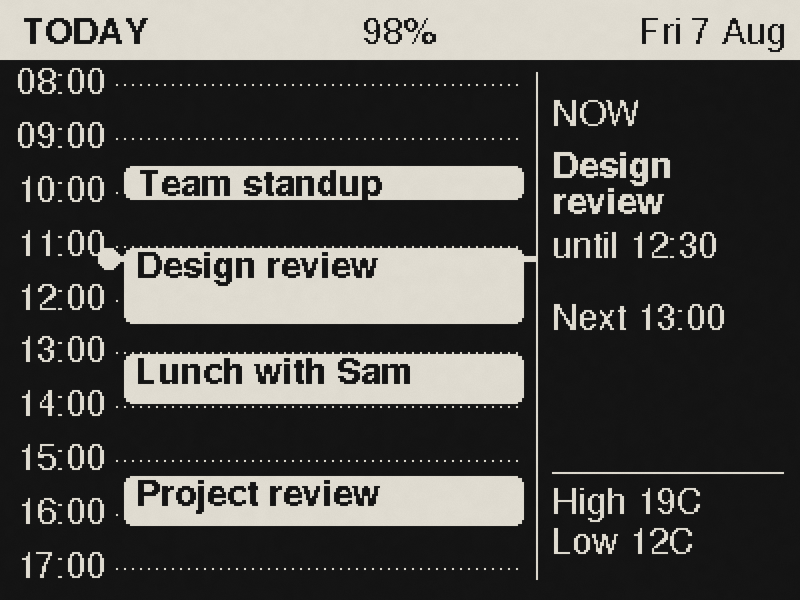
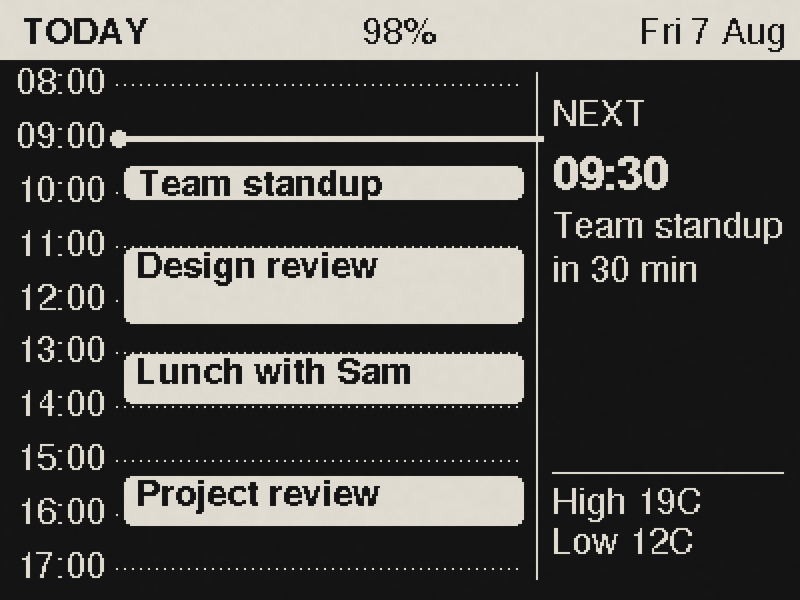
.

diff --git a/src/lib/eink/layouts/timeline.ts b/src/lib/eink/layouts/timeline.ts
@@ -146,16 +146,9 @@ export function timeline(ctx: LayoutCtx): string {
 		if ((h - w.start) % step === 0) d.text(8, y + 4, 's', `${pad2(h % 24)}:00`);
 	}
 
-	// the bar for "now" (only while it moves across the timeline). Drawn BEHIND the event blocks
-	// so it never cuts through a title; its two ends stick out either side of the blocks.
+	// the bar for "now" (only while it moves across the timeline)
 	const barOn = live && timed.length > 0 && nowH >= w.start - TOLERANCE_H && nowH < w.end - TOLERANCE_H;
-	if (barOn) {
-		const y = Math.round(yOf(Math.max(nowH, w.start)));
-		d.fill(lineX - 4, y - 2, blockR - lineX + 10, 1, PAPER);
-		d.fill(lineX - 4, y + 2, blockR - lineX + 10, 1, PAPER);
-		d.fill(lineX - 4, y - 1, blockR - lineX + 10, 3);
-		d.disc(lineX - 4, y, 5);
-	}
+	const barY = barOn ? Math.round(yOf(Math.max(nowH, w.start))) : -99;
 
 	// events: overlapping ones share the width side by side (up to 3 lanes)
 	const MIN_H = 18;
@@ -190,6 +183,7 @@ export function timeline(ctx: LayoutCtx): string {
 	}
 	flush();
 	const total = blockR - blockX;
+	const blocked: [number, number][] = []; // blocks too short to fit a title and the bar: the bar skips them
 	for (const it of items) {
 		const gap = 3;
 		const bw = Math.floor((total - gap * (it.lanes - 1)) / it.lanes);
@@ -197,7 +191,33 @@ export function timeline(ctx: LayoutCtx): string {
 		const y = Math.round(it.top) + 1;
 		const h = Math.round(it.bottom - it.top) - 1;
 		d.fillRound(x, y, bw, h, 4);
-		d.text(x + 6, y + 14, 'sb', it.t.title, { color: PAPER, maxW: bw - 10 });
+		// keep the title clear of the "now" bar when it crosses this block
+		let base = y + 14;
+		if (barOn && barY >= y && barY <= y + h && barY + 3 >= base - 13 && barY - 3 <= base + 4) {
+			if (barY + 3 + 15 + 3 <= y + h) base = barY + 3 + 15; // below the bar
+			else if (barY - 4 - 3 - 13 >= y) base = barY - 4 - 3; // above it
+			else blocked.push([x, x + bw]);
+		}
+		d.text(x + 6, base, 'sb', it.t.title, { color: PAPER, maxW: bw - 10 });
+	}
+
+	// the bar sits on top of the blocks, with a paper edge so it also shows on black
+	if (barOn) {
+		const x0 = lineX;
+		const x1 = blockR + 10;
+		let cur = x0;
+		const seg = (a: number, b: number) => {
+			if (b <= a) return;
+			d.fill(a, barY - 2, b - a, 1, PAPER);
+			d.fill(a, barY + 2, b - a, 1, PAPER);
+			d.fill(a, barY - 1, b - a, 3);
+		};
+		for (const [bx0, bx1] of blocked.sort((p, q) => p[0] - q[0])) {
+			seg(cur, bx0 - 1);
+			cur = Math.max(cur, bx1 + 1);
+		}
+		seg(cur, x1);
+		d.disc(x0 + 1, barY, 4);
 	}
 
 	// right column

diff --git a/tools/make_previews.ts b/tools/make_previews.ts
@@ -27,7 +27,7 @@ const dayEvents = [E('Team standup', 9, 30, 10, 0), E('Design review', 11, 0, 12
 for (const style of ['agenda', 'month', 'bigdate', 'week', 'nextup', 'timeline']) {
 	for (const dark of [false, true]) {
 		const tl = style === 'timeline';
-		const list = renderLayout(style, { nowLocal: tl ? D(8, 7, 11, 15) : D(8, 7, 9), events: tl ? dayEvents : events, weather: { high: 19, low: 12 }, vbat: 4.18, dark, refreshSec: tl ? 3600 : 86400 }, 'sans');
+		const list = renderLayout(style, { nowLocal: tl ? D(8, 7, 9) : D(8, 7, 9), events: tl ? dayEvents : events, weather: { high: 19, low: 12 }, vbat: 4.18, dark, refreshSec: tl ? 3600 : 86400 }, 'sans');
 		const { px } = renderDrawList(list, fonts);
 		const c = createCanvas(1, 1);
 		renderEink(c as any, px, { mode: 'screen', scale: 2 });

diff --git a/src/lib/eink/previewKit.ts b/src/lib/eink/previewKit.ts
@@ -62,8 +62,8 @@ export interface PreviewOptions {
 export function drawListFor(o: PreviewOptions): string {
 	let nowLocal = Math.floor(Date.now() / 1000) - new Date().getTimezoneOffset() * 60;
 	const timeline = o.style === 'timeline';
-	// The live Timeline preview pretends it is a quarter past eleven, so the moving bar is always on show.
-	if (timeline && (o.refreshSec ?? 86400) < 86400) nowLocal = Math.floor(nowLocal / 86400) * 86400 + 11 * 3600 + 15 * 60;
+	// The live Timeline preview pretends it is 9:00 am, so the moving bar is always on show.
+	if (timeline && (o.refreshSec ?? 86400) < 86400) nowLocal = Math.floor(nowLocal / 86400) * 86400 + 9 * 3600;
 	return renderLayout(
 		o.style,
 		{
